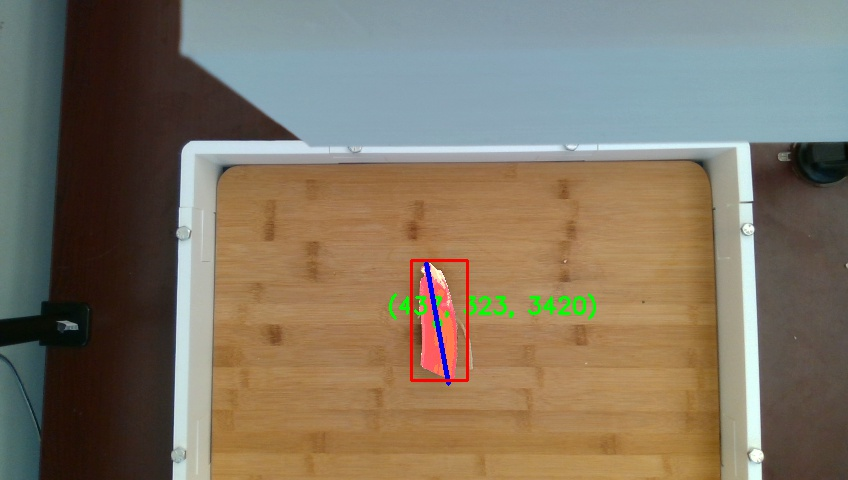
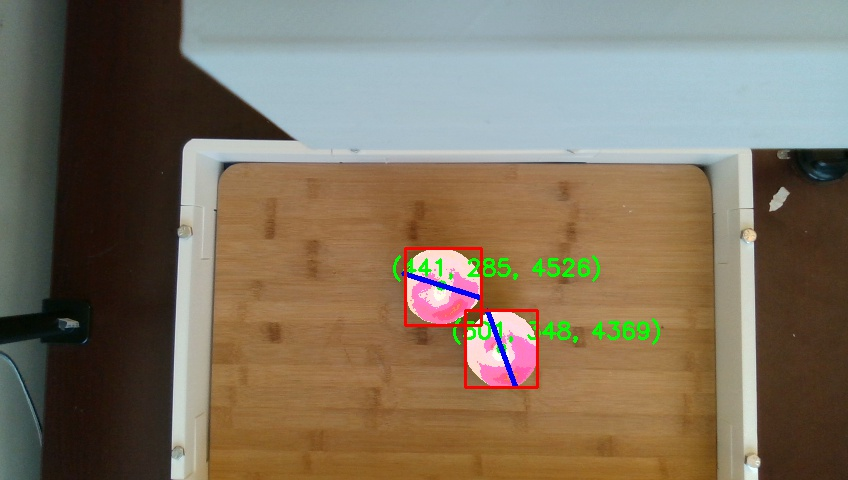
Debug error - fixed

diff --git a/SAM_YOLO_Centroid_Detection.py b/SAM_YOLO_Centroid_Detection.py
@@ -391,7 +391,7 @@ def calculate_centroid(frame, yolo_model, sam_model, poi='', yolo_centroid=False
 			cent_list = []
 			for bc in box_coord[i]:
 				cropped_img = frame[bc[1]:bc[3], bc[0]:bc[2]]
-				frame, centroid_x, centroid_y, mask_area, lp_1, lp_2 = calculate_sam_centroid(cropped_img, sam_model, bc[0], bc[1], bc[2], bc[3], display_mask)
+				frame, centroid_x, centroid_y, mask_area, lp_1, lp_2 = calculate_sam_centroid(frame, sam_model, bc[0], bc[1], bc[2], bc[3], display_mask)
 				cent_list.append([centroid_x, centroid_y, mask_area, bc[0], bc[1], bc[2], bc[3], lp_1, lp_2])
 			cent_list_per_item.append(cent_list)
 		# print("In calculate_centroid() function:")
@@ -497,7 +497,7 @@ def calculate_yolo_centroid(frame, x1, y1, x2, y2):
 
 
 
-def calculate_sam_centroid(cropped_image, mask_generator, x1, y1, x2, y2, display_mask):
+def calculate_sam_centroid(frame, mask_generator, x1, y1, x2, y2, display_mask):
 	"""
 	This function calculates the centroid using SAM 
 	and draws it on the given frame. It also has an option to display the generated mask.
@@ -534,6 +534,7 @@ def calculate_sam_centroid(cropped_image, mask_generator, x1, y1, x2, y2, displa
 
 	global counter
 
+	cropped_image = frame[y1:y2, x1:x2]
 	cropped_mask = mask_generator.generate(cropped_image)
 	
 	cropped_mask_img, cent_x, cent_y, mask_area, point1, point2 = generate_SAM_centroid(cropped_image, cropped_mask)
